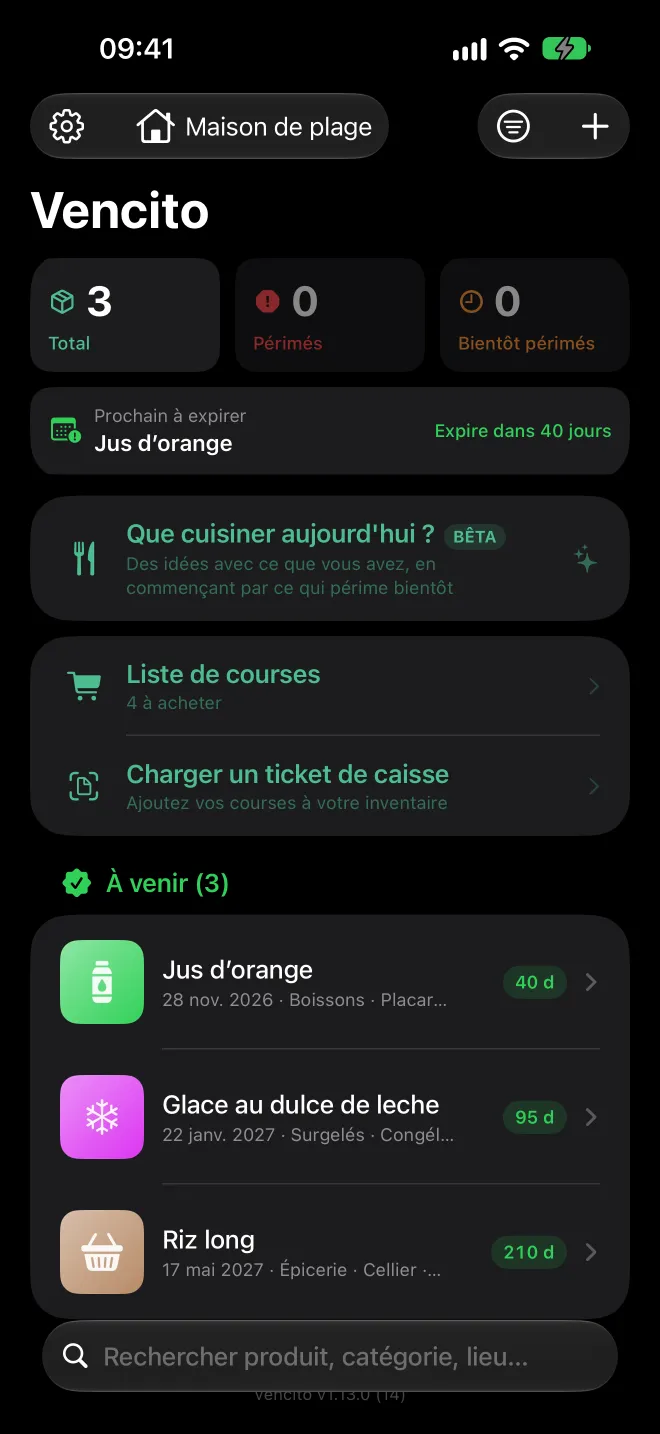
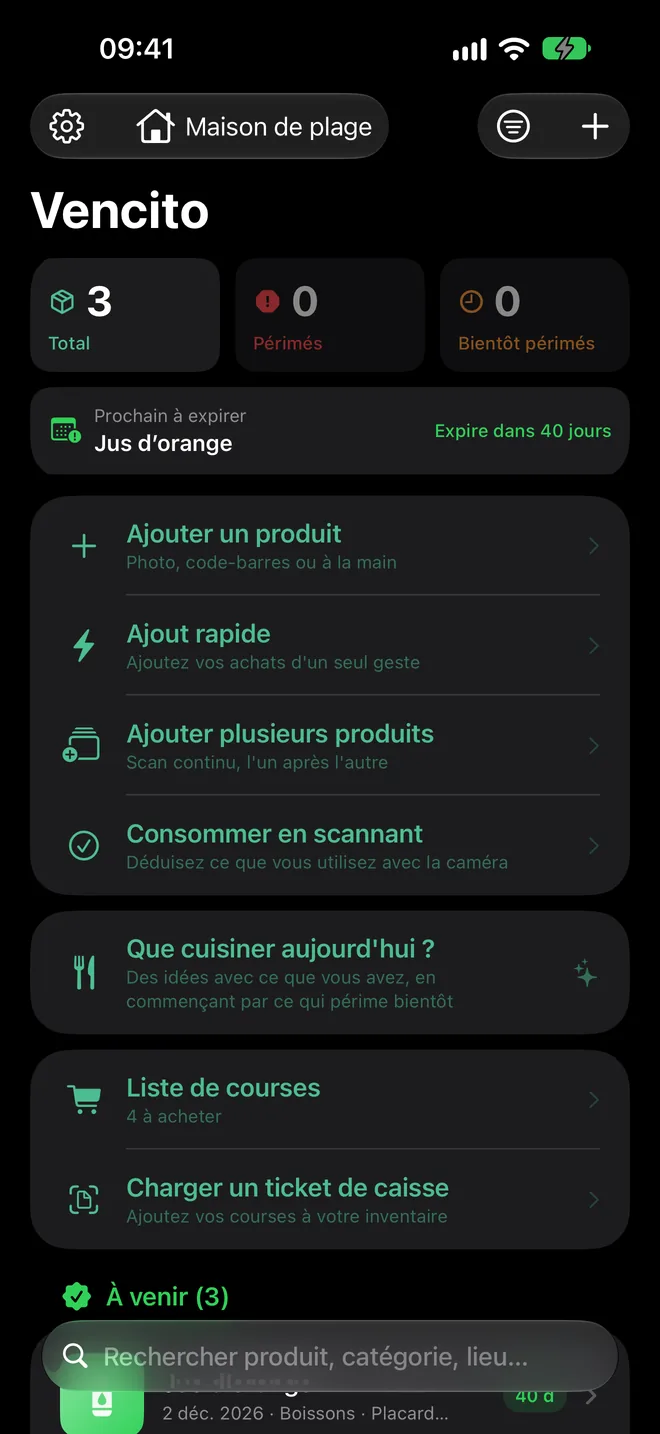
site: capturas sin la etiqueta BETA y con las tarjetas nuevas (portada, recetas, casa) y una captura de estadísticas, en seis idiomas

diff --git a/fr/index.html b/fr/index.html
@@ -185,6 +185,7 @@
         <figure><div class="device"><img src="../assets/img/iphone-fr-add.webp" alt="Formulaire pour ajouter un produit avec photo, nom, catégorie et date" width="660" height="1434" loading="lazy"></div><figcaption>Ajoutez avec une photo ou à la main</figcaption></figure>
         <figure><div class="device"><img src="../assets/img/iphone-fr-settings.webp" alt="Réglages avec les jours de rappel, l&#x27;heure des notifications et la langue" width="660" height="1434" loading="lazy"></div><figcaption>Des rappels à votre façon</figcaption></figure>
         <figure><div class="device"><img src="../assets/img/iphone-fr-recipes.webp" alt="Idée de recette composée avec vos produits : les ingrédients que vous avez, ce qui manque et les étapes" width="660" height="1435" loading="lazy"></div><figcaption>Que cuisiner aujourd'hui ?</figcaption></figure>
+        <figure><div class="device"><img src="../assets/img/iphone-fr-stats.webp" alt="Statistiques de consommation : consommés, à temps, jetés et sauvés, avec un graphique sur six mois" width="660" height="1434" loading="lazy"></div><figcaption>Statistiques</figcaption></figure>
         <figure><div class="device"><img src="../assets/img/iphone-fr-shopping.webp" alt="Liste de courses avec des articles à acheter et un déjà acheté" width="660" height="1435" loading="lazy"></div><figcaption>Liste de courses</figcaption></figure>
         <figure><div class="device"><img src="../assets/img/iphone-fr-homelist.webp" alt="Liste de produits d&#x27;une maison : le menu des maisons en haut et seulement ses produits" width="660" height="1435" loading="lazy"></div><figcaption>Choisissez quelle maison afficher</figcaption></figure>
         <figure><div class="device"><img src="../assets/img/iphone-fr-homes.webp" alt="Écran des maisons avec le nombre de produits dans chacune" width="660" height="1435" loading="lazy"></div><figcaption>Plusieurs maisons</figcaption></figure>

diff --git a/de/index.html b/de/index.html
@@ -185,6 +185,7 @@
         <figure><div class="device"><img src="../assets/img/iphone-de-add.webp" alt="Formular zum Hinzufügen eines Produkts mit Foto, Name, Kategorie und Datum" width="660" height="1434" loading="lazy"></div><figcaption>Mit Foto oder von Hand hinzufügen</figcaption></figure>
         <figure><div class="device"><img src="../assets/img/iphone-de-settings.webp" alt="Einstellungen mit Erinnerungstagen, Uhrzeit der Benachrichtigungen und Sprache" width="660" height="1434" loading="lazy"></div><figcaption>Erinnerungen nach deinem Geschmack</figcaption></figure>
         <figure><div class="device"><img src="../assets/img/iphone-de-recipes.webp" alt="Rezeptidee aus deinen Produkten: vorhandene Zutaten, was fehlt und die Schritte" width="660" height="1435" loading="lazy"></div><figcaption>Was koche ich heute?</figcaption></figure>
+        <figure><div class="device"><img src="../assets/img/iphone-de-stats.webp" alt="Verbrauchsstatistik: verbraucht, rechtzeitig, weggeworfen und gerettet, mit einem Sechs-Monats-Diagramm" width="660" height="1434" loading="lazy"></div><figcaption>Statistiken</figcaption></figure>
         <figure><div class="device"><img src="../assets/img/iphone-de-shopping.webp" alt="Einkaufsliste mit offenen Einträgen und einem bereits gekauften" width="660" height="1435" loading="lazy"></div><figcaption>Einkaufsliste</figcaption></figure>
         <figure><div class="device"><img src="../assets/img/iphone-de-homelist.webp" alt="Produktliste eines Haushalts: das Haushaltsmenü oben und nur dessen Produkte" width="660" height="1435" loading="lazy"></div><figcaption>Wähle, welchen Haushalt du siehst</figcaption></figure>
         <figure><div class="device"><img src="../assets/img/iphone-de-homes.webp" alt="Haushaltsbildschirm mit der Produktanzahl jedes Haushalts" width="660" height="1435" loading="lazy"></div><figcaption>Mehrere Haushalte</figcaption></figure>

diff --git a/pt/index.html b/pt/index.html
@@ -185,6 +185,7 @@
         <figure><div class="device"><img src="../assets/img/iphone-pt-add.webp" alt="Formulário para adicionar um produto com foto, nome, categoria e data" width="660" height="1434" loading="lazy"></div><figcaption>Adicione com foto ou à mão</figcaption></figure>
         <figure><div class="device"><img src="../assets/img/iphone-pt-settings.webp" alt="Ajustes com dias de aviso, horário das notificações e idioma" width="660" height="1434" loading="lazy"></div><figcaption>Avisos do seu jeito</figcaption></figure>
         <figure><div class="device"><img src="../assets/img/iphone-pt-recipes.webp" alt="Ideia de receita montada com seus produtos: ingredientes que você tem, o que falta e os passos" width="660" height="1435" loading="lazy"></div><figcaption>O que cozinhar hoje?</figcaption></figure>
+        <figure><div class="device"><img src="../assets/img/iphone-pt-stats.webp" alt="Estatísticas de consumo: consumidos, usados a tempo, descartados e resgatados, com um gráfico de seis meses" width="660" height="1434" loading="lazy"></div><figcaption>Estatísticas</figcaption></figure>
         <figure><div class="device"><img src="../assets/img/iphone-pt-shopping.webp" alt="Lista de compras com itens pendentes e um já comprado" width="660" height="1435" loading="lazy"></div><figcaption>Lista de compras</figcaption></figure>
         <figure><div class="device"><img src="../assets/img/iphone-pt-homelist.webp" alt="Lista de produtos de uma casa: o menu de casas no topo e só os produtos dela" width="660" height="1435" loading="lazy"></div><figcaption>Escolha qual casa ver</figcaption></figure>
         <figure><div class="device"><img src="../assets/img/iphone-pt-homes.webp" alt="Tela de casas com o número de produtos de cada uma" width="660" height="1435" loading="lazy"></div><figcaption>Várias casas</figcaption></figure>

diff --git a/index.html b/index.html
@@ -187,6 +187,7 @@
         <figure><div class="device"><img src="assets/img/iphone-es-add.webp" alt="Formulario para agregar un producto con foto, nombre, categoría y fecha" width="660" height="1434" loading="lazy"></div><figcaption>Alta con foto o a mano</figcaption></figure>
         <figure><div class="device"><img src="assets/img/iphone-es-settings.webp" alt="Ajustes con días de aviso, hora de la notificación e idioma" width="660" height="1434" loading="lazy"></div><figcaption>Avisos a tu medida</figcaption></figure>
         <figure><div class="device"><img src="assets/img/iphone-es-recipes.webp" alt="Idea de receta con los productos que tenés: ingredientes que ya tenés, los que te faltan y los pasos" width="660" height="1435" loading="lazy"></div><figcaption>¿Qué cocino hoy?</figcaption></figure>
+        <figure><div class="device"><img src="assets/img/iphone-es-stats.webp" alt="Estadísticas de consumo: consumidos, usados a tiempo, tirados y rescatados, con un gráfico de seis meses" width="660" height="1434" loading="lazy"></div><figcaption>Estadísticas</figcaption></figure>
         <figure><div class="device"><img src="assets/img/iphone-es-shopping.webp" alt="Lista de compras con productos pendientes y uno ya comprado" width="660" height="1435" loading="lazy"></div><figcaption>Lista de compras</figcaption></figure>
         <figure><div class="device"><img src="assets/img/iphone-es-homelist.webp" alt="Lista de productos de una casa: el menú de casa arriba y solo los productos de esa casa" width="660" height="1435" loading="lazy"></div><figcaption>Elegí qué casa ver</figcaption></figure>
         <figure><div class="device"><img src="assets/img/iphone-es-homes.webp" alt="Pantalla de casas con la cantidad de productos de cada una" width="660" height="1435" loading="lazy"></div><figcaption>Varias casas</figcaption></figure>

diff --git a/it/index.html b/it/index.html
@@ -185,6 +185,7 @@
         <figure><div class="device"><img src="../assets/img/iphone-it-add.webp" alt="Modulo per aggiungere un prodotto con foto, nome, categoria e data" width="660" height="1434" loading="lazy"></div><figcaption>Aggiungi con una foto o a mano</figcaption></figure>
         <figure><div class="device"><img src="../assets/img/iphone-it-settings.webp" alt="Impostazioni con giorni di avviso, ora delle notifiche e lingua" width="660" height="1434" loading="lazy"></div><figcaption>Avvisi a modo tuo</figcaption></figure>
         <figure><div class="device"><img src="../assets/img/iphone-it-recipes.webp" alt="Idea di ricetta creata con i tuoi prodotti: ingredienti che hai, cosa manca e i passaggi" width="660" height="1435" loading="lazy"></div><figcaption>Cosa cucino oggi?</figcaption></figure>
+        <figure><div class="device"><img src="../assets/img/iphone-it-stats.webp" alt="Statistiche dei consumi: consumati, in tempo, buttati e salvati, con un grafico di sei mesi" width="660" height="1434" loading="lazy"></div><figcaption>Statistiche</figcaption></figure>
         <figure><div class="device"><img src="../assets/img/iphone-it-shopping.webp" alt="Lista della spesa con articoli da comprare e uno già comprato" width="660" height="1435" loading="lazy"></div><figcaption>Lista della spesa</figcaption></figure>
         <figure><div class="device"><img src="../assets/img/iphone-it-homelist.webp" alt="Elenco prodotti di una casa: il menu delle case in alto e solo i suoi prodotti" width="660" height="1435" loading="lazy"></div><figcaption>Scegli quale casa vedere</figcaption></figure>
         <figure><div class="device"><img src="../assets/img/iphone-it-homes.webp" alt="Schermata delle case con il numero di prodotti di ciascuna" width="660" height="1435" loading="lazy"></div><figcaption>Più case</figcaption></figure>

diff --git a/en/index.html b/en/index.html
@@ -187,6 +187,7 @@
         <figure><div class="device"><img src="../assets/img/iphone-en-add.webp" alt="Form to add a product with photo, name, category and date" width="660" height="1434" loading="lazy"></div><figcaption>Add with a photo or by hand</figcaption></figure>
         <figure><div class="device"><img src="../assets/img/iphone-en-settings.webp" alt="Settings with reminder days, notification time and language" width="660" height="1434" loading="lazy"></div><figcaption>Reminders your way</figcaption></figure>
         <figure><div class="device"><img src="../assets/img/iphone-en-recipes.webp" alt="Recipe idea built from your products: ingredients you have, what you’re missing and the steps" width="660" height="1435" loading="lazy"></div><figcaption>What should I cook today?</figcaption></figure>
+        <figure><div class="device"><img src="../assets/img/iphone-en-stats.webp" alt="Consumption statistics: consumed, used on time, thrown out and saved, with a six-month chart" width="660" height="1434" loading="lazy"></div><figcaption>Statistics</figcaption></figure>
         <figure><div class="device"><img src="../assets/img/iphone-en-shopping.webp" alt="Shopping list with pending items and one already bought" width="660" height="1435" loading="lazy"></div><figcaption>Shopping list</figcaption></figure>
         <figure><div class="device"><img src="../assets/img/iphone-en-homelist.webp" alt="Product list of one home: the home menu at the top and only that home’s products" width="660" height="1435" loading="lazy"></div><figcaption>Pick which home to see</figcaption></figure>
         <figure><div class="device"><img src="../assets/img/iphone-en-homes.webp" alt="Homes screen with the number of products in each" width="660" height="1435" loading="lazy"></div><figcaption>Several homes</figcaption></figure>
